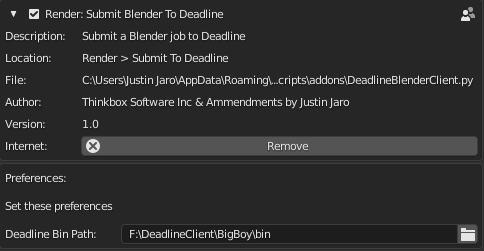
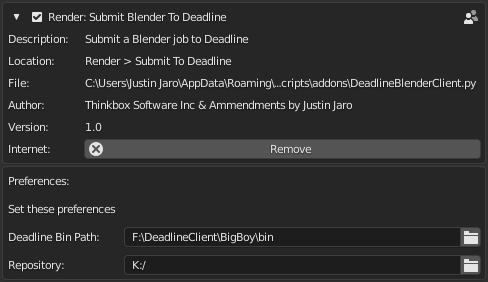
Updated repo

diff --git a/DeadlineBlenderClient.py b/DeadlineBlenderClient.py
@@ -59,6 +59,12 @@ class SubmitBlenderToDeadlineAddonPreferences(AddonPreferences):
         default=deadlineBin
         
     )
+    TargetRepository: StringProperty(
+        name="Repository",
+        subtype='DIR_PATH',
+        default='K:/'
+        
+    )
 
     
 
@@ -66,6 +72,7 @@ class SubmitBlenderToDeadlineAddonPreferences(AddonPreferences):
         layout = self.layout
         layout.label(text="Set these preferences")
         layout.prop(self, "DeadlineBinPath")
+        layout.prop(self, "TargetRepository")
 
 def GetDeadlineCommand(*args, **kwargs):
     deadlineBin = ""
@@ -202,7 +209,7 @@ class SubmitToDeadline_Operator (bpy.types.Operator):
         preferences = context.preferences
         addon_prefs = preferences.addons[__name__].preferences
         
-        path = GetRepositoryPath("K:/", preferences =addon_prefs)
+        path = GetRepositoryPath(addon_prefs.TargetRepository, preferences =addon_prefs)
         if path != "":            
             # Add the path to the system path
             if path not in sys.path :

diff --git a/README.md b/README.md
@@ -10,8 +10,7 @@ Submit a Blender scene to a Deadline Server.
 3. Install the addon in Blender
 
 4. Set your ```Deadline Bin Path``` in the Addon's preferences.
-
-5. Set the 
+5. Set your ```Repository``` in the Addon's preferences.
 
    ![img](https://github.com/vltmedia/Deadline-Blender-Client---Blender-Addon/blob/master/images/SubmitDeadline_01_pref.png)
 
